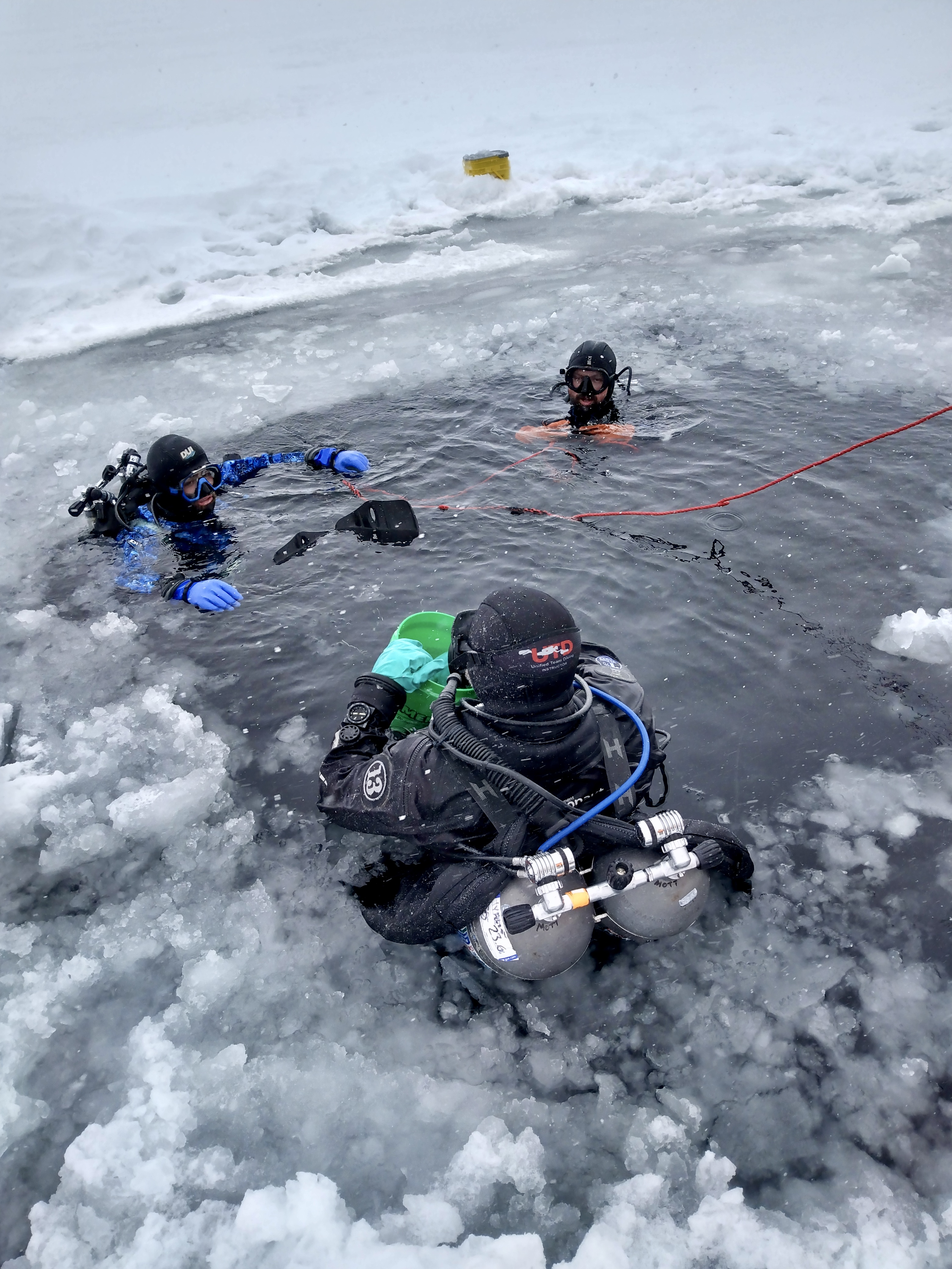
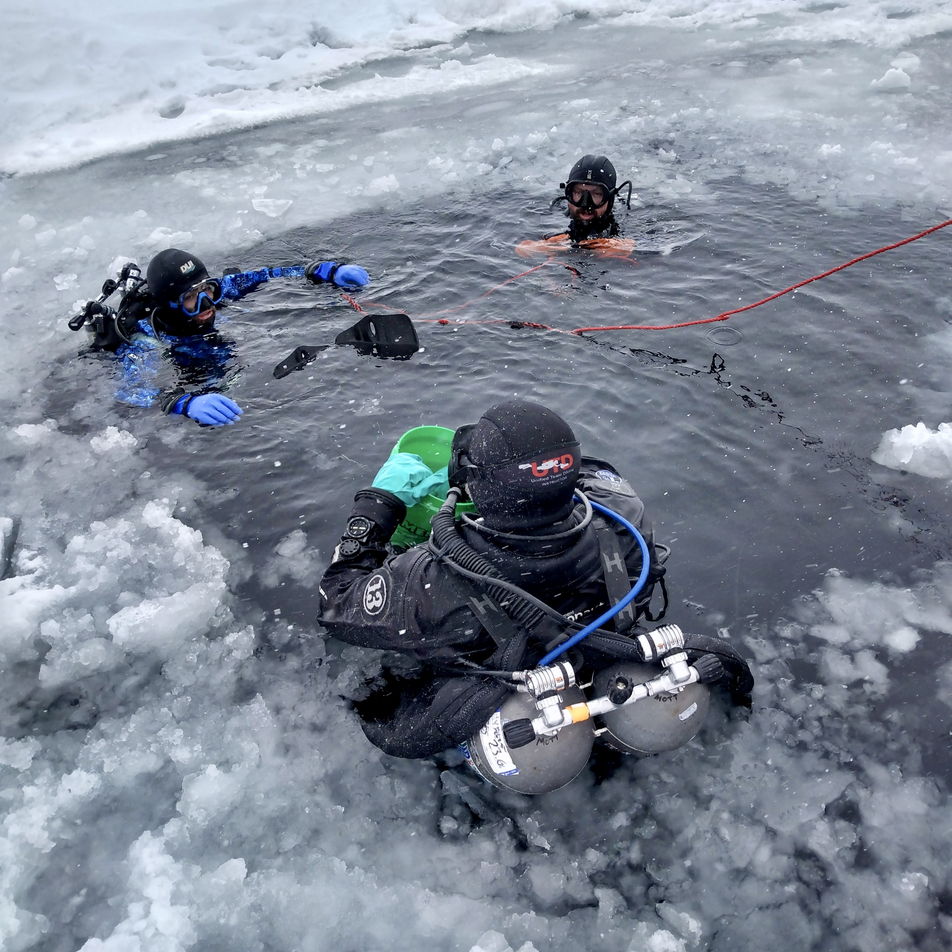
New photos.

diff --git a/_sass/layout/_base.scss b/_sass/layout/_base.scss
@@ -16,7 +16,7 @@ body {
   padding: $masthead-height 0 0;
   padding-bottom: 9em;
   font-family: $global-font-family;
-  line-height: 1.5;
+  line-height: 1.3;
 
   &.overflow--hidden {
     /* when primary navigation is visible, the content in the background won't scroll */
@@ -25,7 +25,7 @@ body {
 }
 
 h1, h2, h3, h4, h5, h6 {
-  margin: 2em 0 0.5em;
+  margin: 2em 0 0.2em;
   line-height: 1.2;
   font-family: $header-font-family;
   font-weight: bold;
@@ -61,7 +61,7 @@ small, .small {
 }
 
 p {
-  margin-bottom: 1.3em;
+  margin-bottom: 0.5em;
 }
 
 u,

diff --git a/_includes/author-profile.html b/_includes/author-profile.html
@@ -21,7 +21,7 @@
   </div>
 
   <div class="author__urls-wrapper">
-    <button class="btn btn--inverse">Follow</button>
+    <button class="btn btn--inverse">LinkedIn</button>
     <ul class="author__urls social-icons">
       <!-- Font Awesome icons / Biographic information  -->
       {% if author.location %}

diff --git a/_pages/cv.md b/_pages/cv.md
@@ -7,7 +7,9 @@ redirect_from:
   - /resume
 ---
 
-[Download CV (PDF)](/files/CV - Kaden Grace.pdf){: .btn .btn--primary .btn--large}
+[Download my CV (PDF)](/files/CV - Kaden Grace.pdf){: .btn .btn--primary .btn--large}
+
+<embed src="/files/CV - Kaden Grace.pdf" type="application/pdf" width="100%" height="800px" />
 
 ---
 
@@ -21,6 +23,7 @@ redirect_from:
 
 **B.S. Economics, B.A. Mathematics** (2022)
 *University of Mississippi*
+
 Honors: summa cum laude, Phi Kappa Phi
 
 ---
@@ -28,22 +31,12 @@ Honors: summa cum laude, Phi Kappa Phi
 ## Research Fields
 
 * Public Economics
-* Behavioral and Experimental Economics
 * Health Economics
+* Behavioral and Experimental Economics
 
 ---
 
-## Research Experience
-
-**Research Assistant (Graduate)**
-*University of Tennessee - Knoxville, 2023-2025*
-
-**Experimental Lab Manager**
-*University of Tennessee - Knoxville, 2023-2026*
-
----
-
-## Teaching Experience
+## [Teaching Experience](/teaching/)
 
 **Instructor of Record**
 *University of Tennessee - Knoxville*
@@ -54,6 +47,16 @@ Honors: summa cum laude, Phi Kappa Phi
 * ECON 211: Principles of Microeconomics, Fall 2022 – Spring 2023
 * ECON 311: Intermediate Microeconomics, Spring 2023
 * ECON 581: Mathematical Methods in Economics, Fall 2023
+
+---
+
+## [Research Work Experience](/research/)
+
+**Research Assistant (Graduate)**
+*University of Tennessee - Knoxville, 2023-2025*
+
+**Experimental Lab Manager**
+*University of Tennessee - Knoxville, 2023-2026*
 
 ---
 
@@ -70,10 +73,8 @@ Honors: summa cum laude, Phi Kappa Phi
 
 ## Service
 
-* Student Representative, Campus Advisory Board, 2025-2026
+* Student Representative, [Campus Advisory Board](https://chancellor.utk.edu/university-leadership/advisory-board/){:target="_blank"}, 2025-2026
 * Chairperson, Doctoral Student Association, 2023-2024
 * Organizer, Graduate Student Research Seminar, 2023-2025
 
 ---
-
-For a complete CV, please download the PDF version above.

diff --git a/_pages/about.md b/_pages/about.md
@@ -1,21 +1,26 @@
 ---
 permalink: /
-title: "About"
+title: "Kaden Grace"
 author_profile: true
 redirect_from:
   - /about/
   - /about.html
 ---
 
-Hello! I'm Kaden Grace, a fourth-year Economics PhD candidate at the University of Tennessee - Knoxville. My research uses tools from applied microeconomics and causal inference to answer questions about public finance and health economics. Outside the office, I spend a lot of time underwater.
+Hello! I'm Kaden Grace, a fourth-year Economics PhD candidate at the University of Tennessee - Knoxville. My [research](/research/) uses tools from applied microeconomics, causal inference, and experiments to answer questions about public finance and health economics. Outside the office, I spend a lot of time [underwater](/scuba/).
+
+You can find my [CV here](/cv/). 
+
+You can email me at kaden.grace (at) utk.edu.
 
 Research Fields
 ------
-* Public Economics
-* Behavioral and Experimental Economics
+* Public Finance
 * Health Economics
-* Applied Microeconomics
+* Behavioral and Experimental Economics
 
 Background
 ------
-Since 2023, he has served as Chairperson of the Haslam Doctoral Student Association. Grace earned his BS in Economics and BA in Mathematics from the University of Mississippi and his MA in Economics from the University of Tennessee.
+I earned my BS in Economics and BA in Mathematics from the University of Mississippi and my MA in Economics from the University of Tennessee. 
+
+I serve as the Student Representative on the [Campus Advisory Board](https://chancellor.utk.edu/university-leadership/advisory-board/){:target="_blank"} for the University of Tennessee - Knoxville. Since 2023, I have served as Chairperson of the Haslam Doctoral Student Association. 

diff --git a/_pages/research.md b/_pages/research.md
@@ -13,9 +13,9 @@ Texas Senate Bill 8, enacted in September 2021, introduced a novel enforcement m
 
 ---
 
-### Saving for a Rainy Day: Experimental Evidence on Prize-Linked Saving and Financial Shocks
+### [Saving for a Rainy Day: Experimental Evidence on Prize-Linked Saving and Financial Shocks](/files/plsaGrace.pdf){:target="_blank"}
 
-[Download Paper](/files/plsaGrace.pdf){: .btn .btn--info}
+[View latest draft](/files/plsaGrace.pdf){: .btn .btn--info target="_blank"}
 
 Liquidity constraints and inadequate precautionary savings create substantial financial vulnerability for low-income households who face costly or inaccessible credit markets when unexpected expenses arise. This paper presents a laboratory experiment integrating a dynamic life-cycle savings model with prize-linked savings accounts (PLSAs, which offer lottery-style prizes in lieu of guaranteed interest) to investigate whether the behaviorally-motivated intervention can increase savings under financial uncertainty. I find that PLSAs crowd-out traditional savings accounts by 38.5 to 33.6 percent. Total savings does not increase. This portfolio reallocation imposes costs: participants lose 9.1 to 17.8 percent of potential earnings by forgoing compound interest, with the largest effects concentrated among risk-seeking individuals who exhibit 93.7 percent crowding-out. PLSAs function primarily as portfolio substitutes rather than savings-creation tools. Heterogeneity across customer risk preferences suggests that PLSAs may be most attractive to risk-seeking households.
 

diff --git a/_pages/teaching.md b/_pages/teaching.md
@@ -7,26 +7,26 @@ author_profile: true
 
 ## Instructor of Record
 
-**ECON 311: Intermediate Microeconomics** - Spring 2026
 *University of Tennessee - Knoxville*
 
-Engaged and mentored students by teaching a course for Economics and Finance majors, covering consumer theory, producer theory, market structures, and welfare analysis.
+**ECON 311: Intermediate Microeconomics** - Spring 2026
+
+Engaged and mentored students by teaching a course for Economics majors covering consumer theory, producer theory, market structures, and welfare analysis.
 
 ---
 
 ## Teaching Assistant
 
-**ECON 581: Mathematical Methods in Economics** - Fall 2023
 *University of Tennessee - Knoxville*
+
+**ECON 581: Mathematical Methods in Economics** - Fall 2023
 
 Assisted in graduate-level course covering mathematical tools for economic analysis, including optimization, dynamic programming, and fixed point theorems.
 
 **ECON 311: Intermediate Microeconomics** - Spring 2023
-*University of Tennessee - Knoxville*
 
 Supported instruction in intermediate microeconomic theory for upper-level undergraduates.
 
 **ECON 211: Principles of Microeconomics** - Fall 2022, Spring 2023
-*University of Tennessee - Knoxville*
 
 Assisted in introductory microeconomics courses, conducted review sessions, and graded assignments for large lecture sections.

diff --git a/_pages/scuba.md b/_pages/scuba.md
@@ -3,12 +3,15 @@ layout: archive
 title: "Scuba Diving"
 permalink: /scuba/
 author_profile: true
-header:
-  image: /images/blue water.JPG
 ---
 
-Outside of economics, I spend much of my time underwater. I am a certified scuba diving instructor through NAUI, SSI, and PADI, sharing my passion for diving with students around the world.
+I am a certified scuba diving instructor through NAUI, SSI, and PADI. I share my passion for diving with students around the world. My deepest dive to date was 141' on the [Wreck of the Deep Stim](https://panamacitydiving.com/charters/deep-stim-shipwreck-double-dip){:target="_blank"} off the coast of Panama City, FL.
 
+---
+<figure>
+  <img src="/images/blue water.JPG" alt="Blue-water">
+  <figcaption>Ninety feet of blue water, Cozumel, Mexico (2024)</figcaption>
+</figure>
 ---
 
 <figure>
